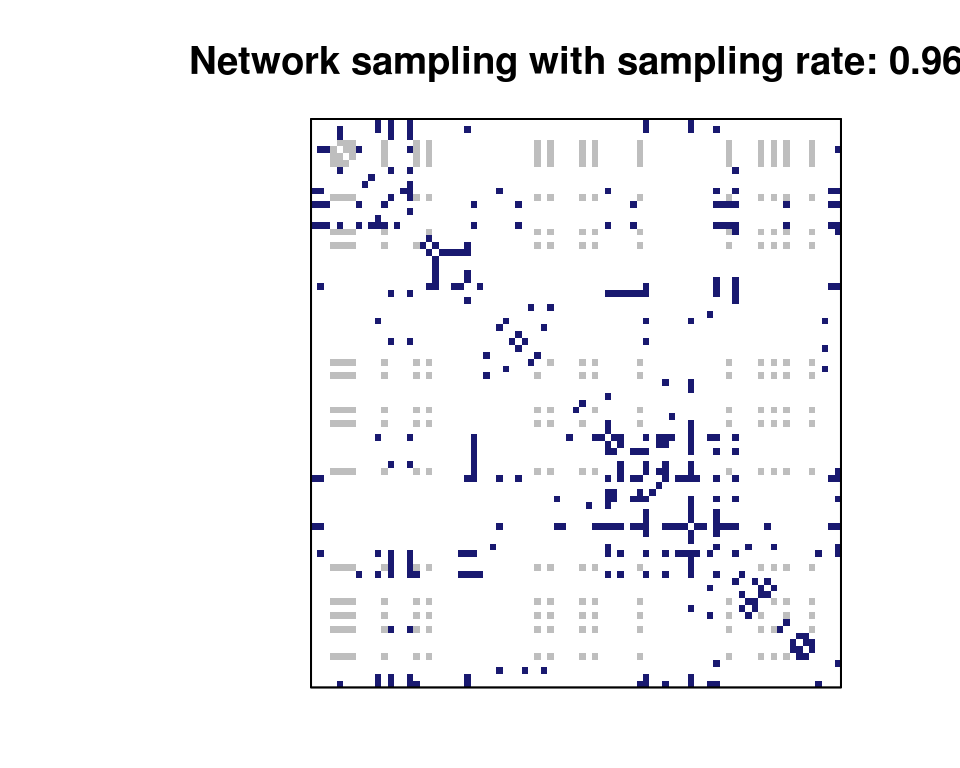
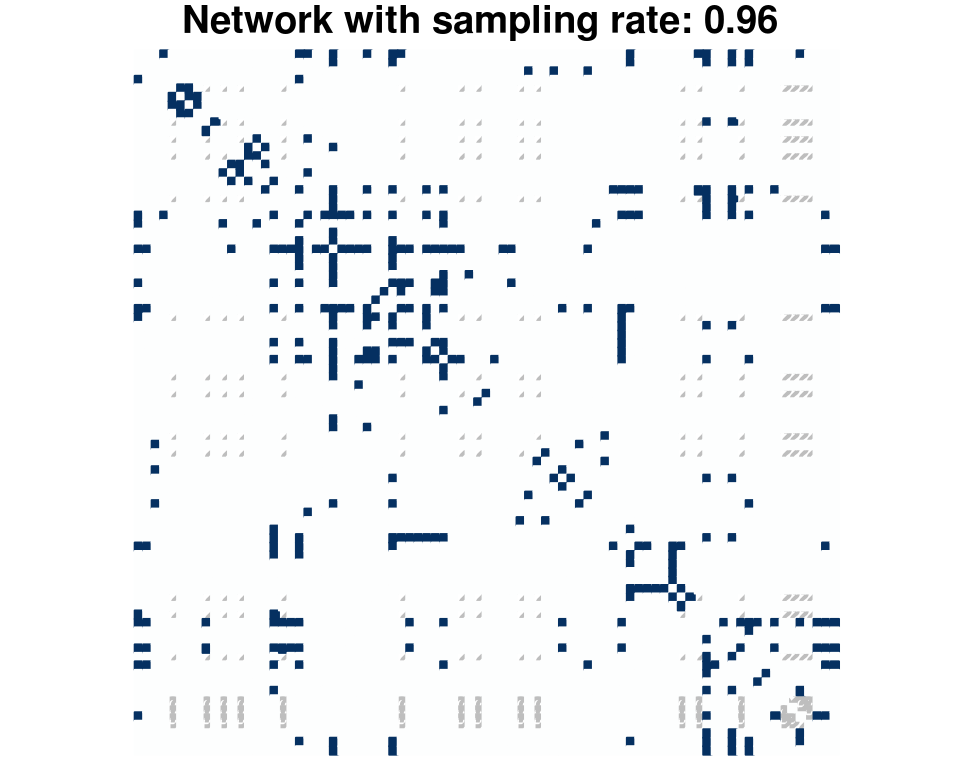
Deploy jchiquet/missSBM to github.com/jchiquet/missSBM.git:gh-pages

diff --git a/reference/estimate.html b/reference/estimate.html
@@ -131,7 +131,7 @@ Stochastic Block Models indexed by block number.</p>
     </div>
 
     <pre class="usage"><span class='fu'>estimate</span>(<span class='no'>sampledNet</span>, <span class='no'>vBlocks</span>, <span class='no'>sampling</span>, <span class='kw'>clusterInit</span> <span class='kw'>=</span> <span class='st'>"spectral"</span>,
-  <span class='kw'>control</span> <span class='kw'>=</span> <span class='fu'><a href='https://www.rdocumentation.org/packages/base/topics/list'>list</a></span>())</pre>
+  <span class='kw'>use_covariates</span> <span class='kw'>=</span> <span class='fl'>TRUE</span>, <span class='kw'>control</span> <span class='kw'>=</span> <span class='fu'><a href='https://www.rdocumentation.org/packages/base/topics/list'>list</a></span>())</pre>
     
     <h2 class="hasAnchor" id="arguments"><a class="anchor" href="#arguments"></a>Arguments</h2>
     <table class="ref-arguments">
@@ -153,7 +153,11 @@ and NMAR designs ("double-standard", "block-dyad", "block-node" ,"degree")</p></
     <tr>
       <th>clusterInit</th>
       <td><p>Initial method for clustering: either a character in "hierarchical", "spectral"
-or "kmeans", or a list with <code><a href='https://www.rdocumentation.org/packages/base/topics/length'>length(vBlocks)</a></code> vectors, each with size <code><a href='https://www.rdocumentation.org/packages/base/topics/nrow'>ncol(adjacencyMatrix)</a></code>
+or "kmeans", or a list with <code><a href='https://www.rdocumentation.org/packages/base/topics/length'>length(vBlocks)</a></code> vectors, each with size <code><a href='https://www.rdocumentation.org/packages/base/topics/nrow'>ncol(adjacencyMatrix)</a></code></p></td>
+    </tr>
+    <tr>
+      <th>use_covariates</th>
+      <td><p>logicial. If covariates are present in sampledNet, should they be used for the infernece or of the network sampling design, or just for the SBM pinference? default is TRUE.
 providing a user-defined clustering. Default is "spectral".</p></td>
     </tr>
     <tr>
@@ -179,8 +183,10 @@ variational EM algorithm, with the following parameters</p><ul>
     <p>The differents sampling designs are splitted into two families in which we find dyad-centered and
 node-centered samplings. See &lt;doi:10.1080/01621459.2018.1562934&gt; for complete description.</p><ul>
 <li><p>Missing at Random (MAR)</p><ul>
-<li><p>"dyad": parameter = p $$p = P(Dyad (i,j) is sampled)$$</p></li>
+<li><p>"dyad": parameter = p and $$p = P(Dyad (i,j) is sampled)$$</p></li>
 <li><p>"node": parameter = p and $$p = P(Node i is sampled)$$</p></li>
+<li><p>"covar-dyad": parameter = beta in R^M and $$P(Dyad (i,j) is sampled) = logistic(parameter' covarArray (i,j, ))$$</p></li>
+<li><p>"covar-node": parameter = nu in R^M and $$P(Node i is sampled)  = logistic(parameter' covarMatrix (i,)$$</p></li>
 </ul></li>
 <li><p>Not Missing At Random (NMAR)</p><ul>
 <li><p>"double-standard": parameter = (p0,p1) and $$p0 = P(Dyad (i,j) is sampled | the dyad is equal to 0)=$$, p1 = P(Dyad (i,j) is sampled | the dyad is equal to 1)</p></li>

diff --git a/reference/sample.html b/reference/sample.html
@@ -177,6 +177,8 @@ node-centered samplings. See &lt;doi:10.1080/01621459.2018.1562934&gt; for compl
 <li><p>Missing at Random (MAR)</p><ul>
 <li><p>"dyad": parameter = p $$p = P(Dyad (i,j) is sampled)$$</p></li>
 <li><p>"node": parameter = p and $$p = P(Node i is sampled)$$</p></li>
+<li><p>"covar-dyad": parameter = beta in R^M and $$P(Dyad (i,j) is sampled) = logistic(parameter' covarArray (i,j, ))$$</p></li>
+<li><p>"covar-node": parameter = nu in R^M and $$P(Node i is sampled)  = logistic(parameter' covarMatrix (i,)$$</p></li>
 </ul></li>
 <li><p>Not Missing At Random (NMAR)</p><ul>
 <li><p>"double-standard": parameter = (p0,p1) and $$p0 = P(Dyad (i,j) is sampled | the dyad is equal to 0)=$$, p1 = P(Dyad (i,j) is sampled | the dyad is equal to 1)</p></li>
@@ -225,9 +227,11 @@ node-centered samplings. See &lt;doi:10.1080/01621459.2018.1562934&gt; for compl
        <span class='kw'>cluster</span>         <span class='kw'>=</span> <span class='no'>sbm</span>$<span class='no'>memberships</span>
      )
 }</div><span class='co'># NOT RUN {</span>
+<span class='co'>## SSOOOO long, but fancy</span>
 <span class='fu'><a href='https://www.rdocumentation.org/packages/graphics/topics/par'>par</a></span>(<span class='kw'>mfrow</span> <span class='kw'>=</span> <span class='fu'><a href='https://www.rdocumentation.org/packages/base/topics/c'>c</a></span>(<span class='fl'>2</span>,<span class='fl'>3</span>))
 <span class='kw'>for</span> (<span class='no'>sampling</span> <span class='kw'>in</span> <span class='fu'><a href='https://www.rdocumentation.org/packages/base/topics/names'>names</a></span>(<span class='no'>sampling_parameters</span>)) {
-  <span class='fu'><a href='https://www.rdocumentation.org/packages/graphics/topics/plot'>plot</a></span>(<span class='no'>sampled_networks</span><span class='kw'>[[</span><span class='no'>sampling</span>]] , <span class='kw'>main</span> <span class='kw'>=</span> <span class='fu'><a href='https://www.rdocumentation.org/packages/base/topics/paste'>paste</a></span>(<span class='no'>sampling</span>, <span class='st'>"sampling"</span>))
+  <span class='fu'><a href='https://www.rdocumentation.org/packages/graphics/topics/plot'>plot</a></span>(<span class='no'>sampled_networks</span><span class='kw'>[[</span><span class='no'>sampling</span>]],
+    <span class='kw'>clustering</span> <span class='kw'>=</span> <span class='no'>sbm</span>$<span class='no'>memberships</span>, <span class='kw'>main</span> <span class='kw'>=</span> <span class='fu'><a href='https://www.rdocumentation.org/packages/base/topics/paste'>paste</a></span>(<span class='no'>sampling</span>, <span class='st'>"sampling"</span>))
 }
 <span class='fu'><a href='https://www.rdocumentation.org/packages/graphics/topics/par'>par</a></span>(<span class='kw'>mfrow</span> <span class='kw'>=</span> <span class='fu'><a href='https://www.rdocumentation.org/packages/base/topics/c'>c</a></span>(<span class='fl'>1</span>,<span class='fl'>1</span>))
 <span class='co'># }</span></pre>

diff --git a/reference/sampledNetwork.html b/reference/sampledNetwork.html
@@ -186,7 +186,7 @@
 #&gt;    $adjacencyMatrix, $covarMatrix, $covarArray
 #&gt;    $dyads, $missingDyads, $observedDyads, $observedNodes
 #&gt;    $samplingRate, $samplingMatrix, $NAs
-#&gt; * Useful method: plot() </div><div class='input'><span class='fu'><a href='https://www.rdocumentation.org/packages/graphics/topics/plot'>plot</a></span>(<span class='no'>sampled_network</span>)</div><div class='img'><img src='sampledNetwork-1.png' alt='' width='700' height='433' /></div></pre>
+#&gt; * Useful method: plot() </div><div class='input'><span class='fu'><a href='https://www.rdocumentation.org/packages/graphics/topics/plot'>plot</a></span>(<span class='no'>sampled_network</span>, <span class='kw'>clustering</span> <span class='kw'>=</span> <span class='no'>sbm</span>$<span class='no'>memberships</span>)</div><div class='img'><img src='sampledNetwork-1.png' alt='' width='700' height='433' /></div></pre>
   </div>
   <div class="col-md-3 hidden-xs hidden-sm" id="sidebar">
     <h2>Contents</h2>

diff --git a/articles/case_study_war_networks.html b/articles/case_study_war_networks.html
@@ -86,7 +86,7 @@
       <h1>missSBM: a case study with war networks</h1>
                         <h4 class="author">missSBM team</h4>
             
-            <h4 class="date">2019-04-18</h4>
+            <h4 class="date">2019-04-19</h4>
       
       
       <div class="hidden name"><code>case_study_war_networks.Rmd</code></div>
